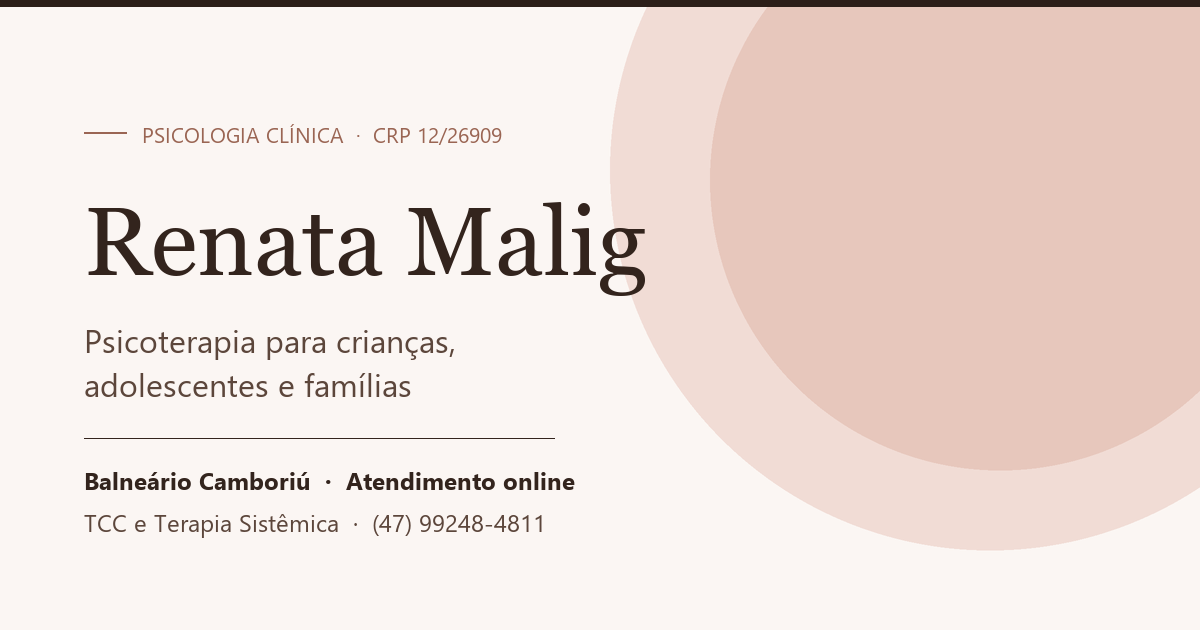
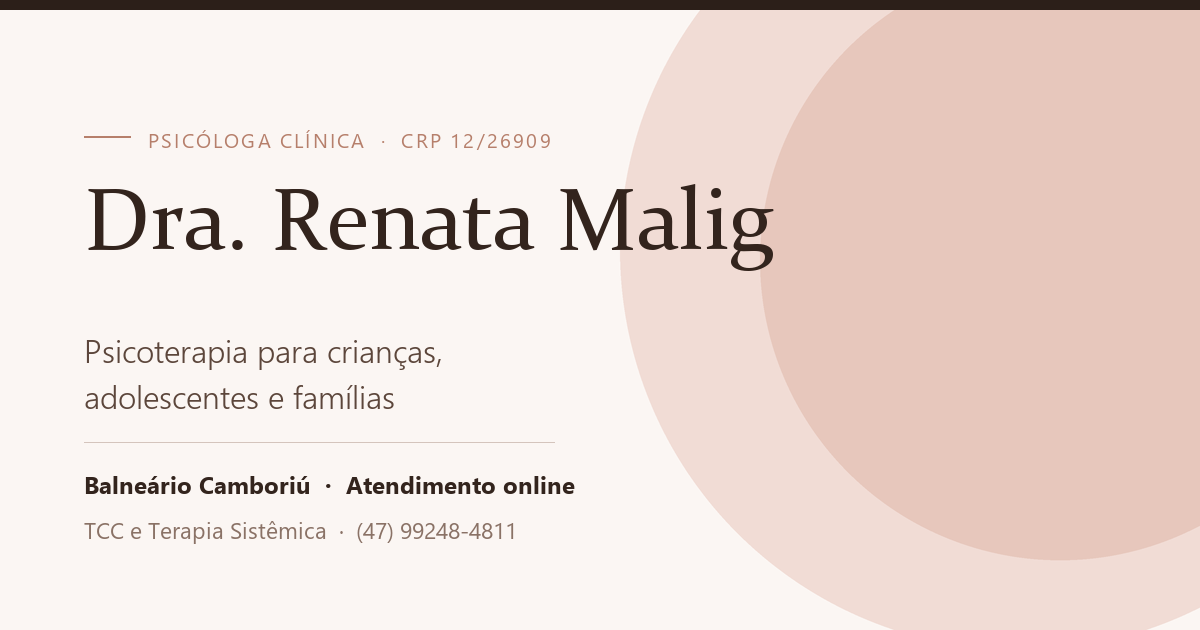
Marca como "Psicologa Dra. Renata Malig" e ajusta hero
- Logo do topo e do rodape passa a ler "Psicologa / Dra. Renata Malig"
- Titulo, metas de SEO, Open Graph, schema.org, copyright e citacao
  atualizados com o "Dra."; alternateName mantem a forma sem titulo
- Tag do hero corrigida para "Psicologa clinica"
- Nova foto no hero (renata-hero.jpeg) com enquadramento ajustado
- og-image regerado com o novo nome
- Reveal das secoes agora entra com blur, removido apos a animacao
- Selo de "20 anos" sai de cima da foto no mobile e vai para baixo dela
- Hero sobe um pouco em mobile e desktop

diff --git a/index.html b/index.html
@@ -6,12 +6,12 @@
 
 <!-- ============ SEO PRINCIPAL ============
      Dominio de producao: https://drarenatamalig.com.br -->
-<title>Psicóloga Infantil em Balneário Camboriú | Renata Malig, CRP 12/26909</title>
+<title>Psicóloga Infantil em Balneário Camboriú | Dra. Renata Malig, CRP 12/26909</title>
 <meta name="description" content="Psicóloga para crianças, adolescentes e famílias em Balneário Camboriú e online. Terapia Cognitivo Comportamental e Sistêmica, com formação em TDAH e Psicopedagogia. Atendimento em português, espanhol, inglês e italiano. Agende pelo WhatsApp.">
 <link rel="canonical" href="https://drarenatamalig.com.br/">
 <meta name="robots" content="index, follow, max-image-preview:large, max-snippet:-1, max-video-preview:-1">
 <meta name="googlebot" content="index, follow">
-<meta name="author" content="Renata Malig">
+<meta name="author" content="Dra. Renata Malig">
 <meta name="theme-color" content="#FBF6F3" media="(prefers-color-scheme: light)">
 <meta name="theme-color" content="#2C1F19" media="(prefers-color-scheme: dark)">
 <meta name="format-detection" content="telephone=no">
@@ -25,18 +25,18 @@
 <!-- ============ OPEN GRAPH ============ -->
 <meta property="og:type" content="website">
 <meta property="og:locale" content="pt_BR">
-<meta property="og:site_name" content="Renata Malig Psicologia">
+<meta property="og:site_name" content="Psicóloga Dra. Renata Malig">
 <meta property="og:url" content="https://drarenatamalig.com.br/">
-<meta property="og:title" content="Psicóloga Infantil em Balneário Camboriú | Renata Malig">
+<meta property="og:title" content="Psicóloga Infantil em Balneário Camboriú | Dra. Renata Malig">
 <meta property="og:description" content="Psicoterapia para crianças, adolescentes e famílias, presencial em Balneário Camboriú e online. TCC e Terapia Sistêmica.">
 <meta property="og:image" content="https://drarenatamalig.com.br/og-image.png">
 <meta property="og:image:width" content="1200">
 <meta property="og:image:height" content="630">
-<meta property="og:image:alt" content="Renata Malig, psicóloga clínica em Balneário Camboriú">
+<meta property="og:image:alt" content="Dra. Renata Malig, psicóloga clínica em Balneário Camboriú">
 
 <!-- ============ TWITTER CARD ============ -->
 <meta name="twitter:card" content="summary_large_image">
-<meta name="twitter:title" content="Psicóloga Infantil em Balneário Camboriú | Renata Malig">
+<meta name="twitter:title" content="Psicóloga Infantil em Balneário Camboriú | Dra. Renata Malig">
 <meta name="twitter:description" content="Psicoterapia para crianças, adolescentes e famílias, presencial em Balneário Camboriú e online.">
 <meta name="twitter:image" content="https://drarenatamalig.com.br/og-image.png">
 
@@ -97,9 +97,10 @@ em{font-style:italic;color:var(--clay-dk)}
 .rule{height:1px;background:var(--line-2);width:100%}
 
 /* ---------- reveal ---------- */
-.rv{opacity:0;transform:translateY(26px);transition:opacity .9s var(--ease),transform .9s var(--ease)}
-.rv.in{opacity:1;transform:none}
-@media (prefers-reduced-motion:reduce){.rv{opacity:1;transform:none;transition:none}html{scroll-behavior:auto}}
+.rv{opacity:0;transform:translateY(26px);filter:blur(9px);transition:opacity .9s var(--ease),transform .9s var(--ease),filter 1s var(--ease)}
+.rv.in{opacity:1;transform:none;filter:blur(0)}
+.rv.done{filter:none;transition:none}
+@media (prefers-reduced-motion:reduce){.rv{opacity:1;transform:none;filter:none;transition:none}html{scroll-behavior:auto}}
 
 /* ---------- nav ---------- */
 .nav{position:fixed;inset:0 0 auto 0;z-index:120;background:rgba(251,246,243,.82);backdrop-filter:blur(14px);-webkit-backdrop-filter:blur(14px);border-bottom:1px solid transparent;transition:border-color .4s,background .4s}
@@ -107,7 +108,7 @@ em{font-style:italic;color:var(--clay-dk)}
 .nav-in{display:flex;align-items:center;justify-content:space-between;height:66px}
 .brand{line-height:1.15}
 .brand b{display:block;font-family:'Fraunces',serif;font-weight:500;font-size:1.12rem;color:var(--ink);letter-spacing:-.01em}
-.brand span{display:block;font-size:.6rem;letter-spacing:.24em;text-transform:uppercase;color:var(--clay);font-weight:500;margin-top:2px}
+.brand span{display:block;font-size:.6rem;letter-spacing:.24em;text-transform:uppercase;color:var(--clay);font-weight:500;margin-bottom:3px}
 .menu{display:none}
 .menu a{position:relative;font-size:.82rem;color:var(--ink-2);letter-spacing:.01em}
 .menu a::after{content:"";position:absolute;left:0;bottom:-5px;width:0;height:1px;background:var(--clay);transition:width .35s var(--ease)}
@@ -133,7 +134,7 @@ em{font-style:italic;color:var(--clay-dk)}
 .btn-2:hover{background:var(--blush);border-color:transparent}
 
 /* ---------- hero ---------- */
-.hero{padding:104px 0 0;position:relative;overflow:hidden}
+.hero{padding:86px 0 0;position:relative;overflow:hidden}
 .hero::before{content:"";position:absolute;top:-160px;right:-180px;width:520px;height:520px;border-radius:50%;background:radial-gradient(circle at 40% 40%,var(--blush),transparent 68%);opacity:.85;pointer-events:none}
 .hero-in{position:relative;z-index:2}
 .kicker{display:inline-flex;align-items:center;gap:9px;font-size:.66rem;letter-spacing:.22em;text-transform:uppercase;color:var(--clay-dk);font-weight:500;margin-bottom:22px}
@@ -143,13 +144,14 @@ em{font-style:italic;color:var(--clay-dk)}
 .hero-btns{display:flex;flex-wrap:wrap;gap:12px;margin-top:30px}
 .hero-media{margin-top:44px;position:relative}
 .arch{border-radius:220px 220px 6px 6px;overflow:hidden;aspect-ratio:3/3.7;position:relative}
+/* no celular o selo fica embaixo da foto, em linha, para nao cobrir o retrato */
 .hero-badge{
-  position:absolute;left:0;bottom:22px;background:var(--paper);
-  border:1px solid var(--line-2);border-radius:4px;padding:14px 18px;max-width:220px;
-  box-shadow:0 16px 44px rgba(44,31,25,.12)
+  display:flex;align-items:center;gap:14px;margin-top:18px;
+  background:var(--paper);border:1px solid var(--line-2);border-radius:4px;
+  padding:14px 16px;box-shadow:0 10px 30px rgba(44,31,25,.07)
 }
-.hero-badge b{display:block;font-family:'Fraunces',serif;font-size:1.5rem;color:var(--ink);line-height:1}
-.hero-badge span{display:block;font-size:.72rem;color:var(--ink-3);margin-top:6px;line-height:1.45}
+.hero-badge b{flex:none;font-family:'Fraunces',serif;font-size:1.45rem;color:var(--ink);line-height:1}
+.hero-badge span{font-size:.74rem;color:var(--ink-3);line-height:1.45}
 .trust{display:grid;grid-template-columns:1fr;gap:0;margin-top:52px;border-top:1px solid var(--line-2)}
 .trust div{padding:18px 0;border-bottom:1px solid var(--line-2);display:flex;align-items:center;justify-content:center;gap:12px;text-align:center}
 .trust svg{width:17px;height:17px;color:var(--clay);flex:none}
@@ -157,7 +159,7 @@ em{font-style:italic;color:var(--clay-dk)}
 
 /* ---------- fotos ---------- */
 .arch img{width:100%;height:100%;object-fit:cover;display:block;background:var(--paper-2)}
-.hero-media .arch img{object-position:50% 20%}
+.hero-media .arch img{object-position:50% 28%}
 .about-media .arch img{object-position:50% 55%}
 
 /* ---------- cabeçalho de seção ---------- */
@@ -281,7 +283,7 @@ em{font-style:italic;color:var(--clay-dk)}
 /* ---------- desktop ---------- */
 @media (min-width:760px){
   .sec{padding:104px 0}
-  .hero{padding:130px 0 0}
+  .hero{padding:104px 0 0}
   .trust{grid-template-columns:repeat(3,1fr);border-bottom:1px solid var(--line-2)}
   .trust div{border-bottom:none;padding:20px 16px;position:relative}
   .trust div+div::before{content:"";position:absolute;left:0;top:50%;transform:translateY(-50%);width:1px;height:22px;background:var(--line-2)}
@@ -291,6 +293,12 @@ em{font-style:italic;color:var(--clay-dk)}
   .ft-bot{grid-template-columns:1fr auto;align-items:center}
   .steps{grid-template-columns:1fr 1fr;column-gap:40px}
   .steps article{padding:28px 0}
+  .hero-badge{
+    display:block;position:absolute;left:0;bottom:22px;max-width:220px;margin-top:0;
+    padding:14px 18px;box-shadow:0 16px 44px rgba(44,31,25,.12)
+  }
+  .hero-badge b{display:block;font-size:1.5rem}
+  .hero-badge span{display:block;font-size:.72rem;margin-top:6px}
 }
 @media (min-width:980px){
   .menu{display:flex;gap:30px}
@@ -320,7 +328,7 @@ em{font-style:italic;color:var(--clay-dk)}
 
 <nav class="nav" id="nav">
   <div class="wrap nav-in">
-    <a href="#topo" class="brand"><b>Renata Malig</b><span>Psicologia</span></a>
+    <a href="#topo" class="brand"><span>Psicóloga</span><b>Dra. Renata Malig</b></a>
     <div class="menu">
       <a href="#sinais">Quando procurar</a>
       <a href="#sobre">Sobre</a>
@@ -347,7 +355,7 @@ em{font-style:italic;color:var(--clay-dk)}
 <header class="hero" id="topo">
   <div class="wrap hero-in">
     <div class="rv">
-      <span class="kicker">Psicologia clínica · CRP 12/26909</span>
+      <span class="kicker">Psicóloga clínica · CRP 12/26909</span>
       <h1>Cuidar da mente<br>de quem você<br><em>mais ama</em></h1>
       <p class="lead">Psicoterapia para crianças, adolescentes e famílias, com abordagem em Terapia Cognitivo Comportamental e Sistêmica. Atendimento presencial no Centro de Balneário Camboriú e também online.</p>
       <div class="hero-btns">
@@ -361,7 +369,7 @@ em{font-style:italic;color:var(--clay-dk)}
 
     <div class="hero-media rv">
       <div class="arch">
-        <img src="Fotos/renata.jpeg" alt="Renata Malig, psicóloga clínica em Balneário Camboriú" width="960" height="1280" fetchpriority="high" decoding="async">
+        <img src="Fotos/renata-hero.jpeg" alt="Dra. Renata Malig, psicóloga clínica em Balneário Camboriú" width="776" height="1064" fetchpriority="high" decoding="async">
       </div>
       <div class="hero-badge">
         <b>20 anos</b>
@@ -480,7 +488,7 @@ em{font-style:italic;color:var(--clay-dk)}
 
       <div class="quote rv">
         <p>"Nenhuma criança se abre com quem ela não sente que é confiável. O vínculo vem primeiro, sempre."</p>
-        <cite>Renata Malig</cite>
+        <cite>Dra. Renata Malig</cite>
       </div>
     </div>
   </div>
@@ -697,7 +705,7 @@ em{font-style:italic;color:var(--clay-dk)}
   <div class="wrap">
     <div class="ft-top">
       <div>
-        <div class="brand"><b>Renata Malig</b><span>Psicologia</span></div>
+        <div class="brand"><span>Psicóloga</span><b>Dra. Renata Malig</b></div>
         <p style="font-size:.86rem;margin-top:14px;max-width:24rem;color:rgba(251,246,243,.6)">Psicoterapia para crianças, adolescentes e famílias em Balneário Camboriú e online.</p>
         <p style="font-size:.78rem;margin-top:12px;letter-spacing:.14em;text-transform:uppercase;color:var(--blush-2)">CRP 12/26909</p>
       </div>
@@ -716,7 +724,7 @@ em{font-style:italic;color:var(--clay-dk)}
       </div>
     </div>
     <div class="ft-bot">
-      <span>Renata Malig Psicologia. Todos os direitos reservados.</span>
+      <span>Psicóloga Dra. Renata Malig. Todos os direitos reservados.</span>
       <span>Site por <a href="https://sanolab.com.br" target="_blank" rel="noopener">Sano Lab</a></span>
     </div>
   </div>
@@ -734,8 +742,8 @@ em{font-style:italic;color:var(--clay-dk)}
     {
       "@type": ["Psychologist", "LocalBusiness", "MedicalBusiness"],
       "@id": "https://drarenatamalig.com.br/#consultorio",
-      "name": "Renata Malig Psicologia",
-      "alternateName": "Renata Malig, Psicóloga Clínica",
+      "name": "Psicóloga Dra. Renata Malig",
+      "alternateName": "Dra. Renata Malig, Psicóloga Clínica",
       "description": "Consultório de psicologia clínica em Balneário Camboriú especializado em atendimento de crianças, adolescentes e famílias, com abordagem em Terapia Cognitivo Comportamental e Sistêmica. Atende presencialmente e online.",
       "url": "https://drarenatamalig.com.br/",
       "telephone": "+5547992484811",
@@ -792,13 +800,14 @@ em{font-style:italic;color:var(--clay-dk)}
     {
       "@type": "Person",
       "@id": "https://drarenatamalig.com.br/#renata",
-      "name": "Renata Malig",
+      "name": "Dra. Renata Malig",
+      "alternateName": "Renata Malig",
       "jobTitle": "Psicóloga Clínica",
       "description": "Psicóloga clínica em Balneário Camboriú especializada em crianças, adolescentes e famílias, com abordagem em Terapia Cognitivo Comportamental e Sistêmica, mais de 20 anos de experiência em liderança escolar e 23 anos de vivência no exterior. Atende em português, espanhol, inglês e italiano.",
       "url": "https://drarenatamalig.com.br/",
       "telephone": "+5547992484811",
       "worksFor": { "@id": "https://drarenatamalig.com.br/#consultorio" },
-      "image": "https://drarenatamalig.com.br/Fotos/renata.jpeg",
+      "image": "https://drarenatamalig.com.br/Fotos/renata-hero.jpeg",
       "sameAs": ["https://www.instagram.com/psicologadrarenatam/"],
       "knowsLanguage": ["pt-BR", "es", "en", "it"],
       "identifier": {
@@ -834,7 +843,7 @@ em{font-style:italic;color:var(--clay-dk)}
       "@type": "WebSite",
       "@id": "https://drarenatamalig.com.br/#site",
       "url": "https://drarenatamalig.com.br/",
-      "name": "Renata Malig Psicologia",
+      "name": "Psicóloga Dra. Renata Malig",
       "inLanguage": "pt-BR",
       "publisher": { "@id": "https://drarenatamalig.com.br/#consultorio" }
     },
@@ -842,7 +851,7 @@ em{font-style:italic;color:var(--clay-dk)}
       "@type": "WebPage",
       "@id": "https://drarenatamalig.com.br/#pagina",
       "url": "https://drarenatamalig.com.br/",
-      "name": "Psicóloga Infantil em Balneário Camboriú | Renata Malig, CRP 12/26909",
+      "name": "Psicóloga Infantil em Balneário Camboriú | Dra. Renata Malig, CRP 12/26909",
       "description": "Psicóloga para crianças, adolescentes e famílias em Balneário Camboriú e online. Terapia Cognitivo Comportamental e Sistêmica.",
       "isPartOf": { "@id": "https://drarenatamalig.com.br/#site" },
       "about": { "@id": "https://drarenatamalig.com.br/#renata" },
@@ -923,7 +932,14 @@ em{font-style:italic;color:var(--clay-dk)}
 
   var io=new IntersectionObserver(function(entries){
     entries.forEach(function(e){
-      if(e.isIntersecting){e.target.classList.add('in');io.unobserve(e.target);}
+      if(e.isIntersecting){
+        var el=e.target;
+        el.classList.add('in');
+        io.unobserve(el);
+        // tira o filtro depois da animacao: blur permanente mantem uma camada
+        // de composicao viva em cada bloco e pesa na rolagem do celular
+        setTimeout(function(){el.classList.add('done');},1400);
+      }
     });
   },{threshold:.12,rootMargin:'0px 0px -8% 0px'});
   document.querySelectorAll('.rv').forEach(function(el,i){
